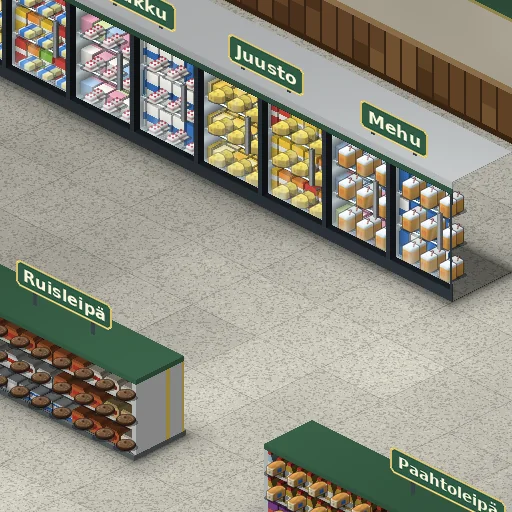
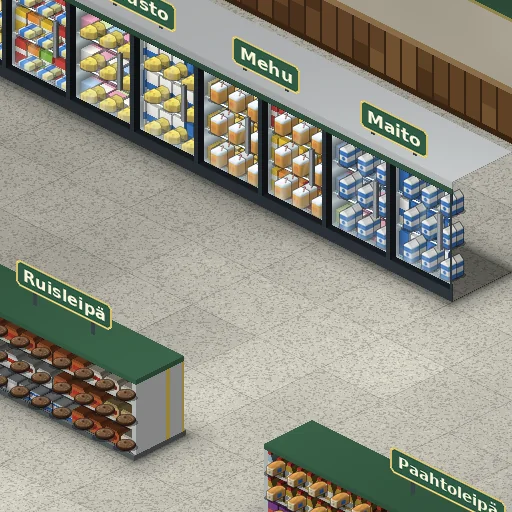
Sátnemátki v0.2.5.3
Gáhkku is left out of Ruokakauppa, as it means bread as well as cake.

diff --git a/art/store/fixtures.js b/art/store/fixtures.js
@@ -1,2 +1,2 @@
 // Generated by tools/make_store.py: where each tile's picture is on the sheet, and where it goes in its 256-high cell.
-window.MAHTTE_STORE = {"41,27s":[0,0,128,244,-96,-36],"5,4":[136,0,124,184,4,72],"6,4":[268,0,124,184,4,72],"7,4":[400,0,124,184,4,72],"8,4":[532,0,124,184,4,72],"9,4":[664,0,124,184,4,72],"10,4":[796,0,124,184,4,72],"11,4":[928,0,124,184,4,72],"12,4":[1060,0,124,184,4,72],"15,4":[1192,0,124,184,4,72],"16,4":[1324,0,124,184,4,72],"17,4":[1456,0,124,184,4,72],"18,4":[1588,0,124,184,4,72],"19,4":[1720,0,124,184,4,72],"20,4":[1852,0,124,184,4,72],"21,4":[1984,0,124,184,4,72],"22,4":[2116,0,124,184,4,72],"6,9":[2248,0,116,140,4,116],"7,9":[2372,0,104,140,4,116],"9,9":[2484,0,116,140,4,116],"10,9":[2608,0,104,140,4,116],"6,14":[2720,0,116,140,4,116],"12,9":[2844,0,120,140,4,116],"7,14":[2972,0,104,140,4,116],"9,14":[3084,0,116,140,4,116],"15,9":[0,252,116,140,4,116],"10,14":[124,252,116,140,4,116],"16,9":[248,252,104,140,4,116],"11,14":[360,252,104,140,4,116],"6,19":[472,252,116,140,4,116],"7,19":[596,252,104,140,4,116],"18,9":[708,252,116,140,4,116],"19,9":[832,252,104,140,4,116],"9,19":[944,252,116,140,4,116],"15,14":[1068,252,116,140,4,116],"10,19":[1192,252,116,140,4,116],"21,9":[1316,252,120,140,4,116],"16,14":[1444,252,104,140,4,116],"11,19":[1556,252,104,140,4,116],"18,14":[1668,252,116,140,4,116],"19,14":[1792,252,116,140,4,116],"25,9":[1916,252,116,140,4,116],"20,14":[2040,252,104,140,4,116],"15,19":[2152,252,116,140,4,116],"26,9":[2276,252,104,140,4,116],"16,19":[2388,252,104,140,4,116],"28,9":[2500,252,116,140,4,116],"18,19":[2624,252,116,140,4,116],"29,9":[2748,252,116,140,4,116],"19,19":[2872,252,116,140,4,116],"30,9":[2996,252,120,140,4,116],"20,19":[0,400,104,140,4,116],"34,9":[112,400,116,140,4,116],"35,9":[236,400,116,140,4,116],"36,9":[360,400,100,140,4,116],"38,9":[468,400,116,140,4,116],"39,9":[592,400,116,140,4,116],"40,9":[716,400,104,140,4,116],"42,9":[828,400,120,140,4,116],"8,9":[956,400,116,136,4,120],"11,9":[1080,400,116,136,4,120],"8,14":[1204,400,116,136,4,120],"17,9":[1328,400,104,136,4,120],"12,14":[1440,400,120,136,4,120],"8,19":[1568,400,116,136,4,120],"20,9":[1692,400,104,136,4,120],"17,14":[1804,400,116,136,4,120],"12,19":[1928,400,120,136,4,120],"21,14":[2056,400,120,136,4,120],"27,9":[2184,400,116,136,4,120],"17,19":[2308,400,116,136,4,120],"21,19":[2432,400,120,136,4,120],"33,9":[2560,400,116,136,4,120],"37,9":[2684,400,116,136,4,120],"41,9":[2808,400,116,136,4,120],"31,24":[2932,400,120,124,0,132],"30,25":[3060,400,120,124,8,132],"31,25":[0,548,120,120,4,132],"3,4":[128,548,128,108,0,148],"3,5":[264,548,128,108,0,148],"3,6":[400,548,128,108,0,148],"3,7":[536,548,128,108,0,148],"3,8":[672,548,128,108,0,148],"3,9":[808,548,128,108,0,148],"3,10":[944,548,128,108,0,148],"3,11":[1080,548,128,108,0,148],"3,12":[1216,548,128,108,0,148],"3,13":[1352,548,128,108,0,148],"3,14":[1488,548,128,108,0,148],"25,4":[1624,548,124,108,0,148],"26,4":[1756,548,128,108,0,148],"27,4":[1892,548,124,108,0,148],"28,4":[2024,548,128,108,0,148],"29,4":[2160,548,124,108,0,148],"30,4":[2292,548,128,108,0,148],"33,4":[2428,548,124,108,0,148],"34,4":[2560,548,128,108,0,148],"35,4":[2696,548,124,108,0,148],"25,14":[2828,548,124,108,0,148],"36,4":[2960,548,128,108,0,148],"26,14":[0,676,128,108,0,148],"37,4":[136,676,124,108,0,148],"27,14":[268,676,124,108,0,148],"38,4":[400,676,128,108,0,148],"28,14":[536,676,128,108,0,148],"39,4":[672,676,124,108,0,148],"29,14":[804,676,124,108,0,148],"40,4":[936,676,128,108,0,148],"30,14":[1072,676,128,108,0,148],"20,24":[1208,676,120,108,4,148],"41,4":[1336,676,124,108,0,148],"20,25":[1468,676,120,108,4,148],"42,4":[1596,676,128,108,0,148],"20,26":[1732,676,120,108,4,148],"33,14":[1860,676,124,108,0,148],"20,27":[1992,676,120,108,4,148],"34,14":[2120,676,128,108,0,148],"24,24":[2256,676,120,108,4,148],"35,14":[2384,676,124,108,0,148],"24,25":[2516,676,120,108,4,148],"36,14":[2644,676,124,108,0,148],"24,26":[2776,676,120,108,4,148],"37,14":[2904,676,124,108,0,148],"24,27":[3036,676,120,108,4,148],"38,14":[0,792,128,108,0,148],"39,14":[136,792,124,108,0,148],"40,14":[268,792,128,108,0,148],"41,14":[404,792,124,108,0,148],"42,14":[536,792,128,108,0,148],"37,19":[672,792,108,108,4,148],"38,19":[788,792,116,108,4,148],"2,4":[912,792,128,104,0,132],"25,19":[1048,792,112,104,4,152],"26,19":[1168,792,120,104,4,152],"27,22":[1296,792,112,104,4,152],"28,22":[1416,792,108,104,4,152],"33,22":[1532,792,112,104,4,152],"34,22":[1652,792,120,104,4,152],"29,22":[1780,792,108,100,4,156],"30,22":[1896,792,120,100,4,156],"41,19":[2024,792,112,100,4,156],"38,22":[2144,792,116,100,4,156],"42,19":[2268,792,120,100,4,156],"39,22":[2396,792,112,100,4,156],"40,22":[2516,792,112,100,4,156],"41,22":[2636,792,108,100,4,156],"42,22":[2752,792,120,100,4,156],"27,19":[2880,792,120,96,4,160],"28,19":[3008,792,116,96,4,160],"29,19":[0,908,116,96,4,160],"30,19":[124,908,120,96,4,160],"28,22s":[252,908,120,96,-8,96],"33,19":[380,908,120,96,4,160],"34,19":[508,908,120,96,4,160],"35,22":[636,908,120,96,4,160],"39,19":[764,908,116,96,4,160],"36,22":[888,908,120,96,4,160],"40,19":[1016,908,112,96,4,160],"37,22":[1136,908,116,96,4,160],"20,4s":[1260,908,124,92,-52,36],"35,19":[1392,908,120,92,4,164],"36,19":[1520,908,108,92,4,164],"38,19s":[1636,908,112,92,-4,96],"30,22s":[1756,908,104,88,0,100],"34,19s":[1868,908,104,88,0,100],"40,19s":[1980,908,96,88,4,100],"39,22s":[2084,908,104,88,0,100],"17,9s":[2196,908,120,84,4,76],"18,4s":[2324,908,108,80,-44,40],"2,27":[2440,908,72,80,28,164],"20,9s":[2520,908,112,80,8,80],"3,27":[2640,908,72,80,28,164],"4,27":[2720,908,72,80,28,164],"5,27":[2800,908,72,80,28,164],"6,27":[2880,908,72,80,28,164],"7,27":[2960,908,72,80,28,164],"8,27":[3040,908,72,80,28,164],"9,27":[3120,908,72,80,28,164],"10,27":[0,1012,72,80,28,164],"11,27":[80,1012,72,80,28,164],"12,27":[160,1012,72,80,28,164],"13,27":[240,1012,72,80,28,164],"14,27":[320,1012,72,80,28,164],"15,27":[400,1012,72,80,28,164],"16,27":[480,1012,72,80,28,164],"17,27":[560,1012,72,80,28,164],"18,27":[640,1012,72,80,28,164],"26,19s":[720,1012,80,80,12,104],"28,19s":[808,1012,88,80,8,104],"21,27":[904,1012,72,80,28,164],"22,27":[984,1012,72,80,28,164],"25,27":[1064,1012,72,80,28,164],"26,27":[1144,1012,72,80,28,164],"27,27":[1224,1012,72,80,28,164],"28,27":[1304,1012,72,80,28,164],"36,19s":[1384,1012,80,80,12,104],"29,27":[1472,1012,72,80,28,164],"34,22s":[1552,1012,88,80,8,104],"30,27":[1648,1012,72,80,28,164],"31,27":[1728,1012,72,80,28,164],"36,22s":[1808,1012,80,80,44,120],"32,27":[1896,1012,72,80,28,164],"33,27":[1976,1012,72,80,28,164],"34,27":[2056,1012,72,80,28,164],"35,27":[2136,1012,72,80,28,164],"36,27":[2216,1012,72,80,28,164],"41,22s":[2296,1012,96,80,36,116],"37,27":[2400,1012,72,80,28,164],"38,27":[2480,1012,72,80,28,164],"41,27":[2560,1012,72,80,28,164],"42,27":[2640,1012,72,80,28,164],"11,9s":[2720,1012,96,76,16,84],"22,4s":[2824,1012,100,76,-40,44],"2,32":[2932,1012,84,76,44,160],"3,32":[3024,1012,84,76,44,160],"4,32":[3116,1012,84,76,44,160],"5,32":[0,1100,84,76,44,160],"6,32":[92,1100,84,76,44,160],"7,32":[184,1100,84,76,44,160],"8,32":[276,1100,84,76,44,160],"9,32":[368,1100,84,76,44,160],"10,32":[460,1100,84,76,44,160],"11,32":[552,1100,84,76,44,160],"12,32":[644,1100,84,76,44,160],"13,32":[736,1100,84,76,44,160],"44,2":[828,1100,84,76,0,160],"14,32":[920,1100,84,76,44,160],"44,3":[1012,1100,84,76,0,160],"15,32":[1104,1100,84,76,44,160],"44,4":[1196,1100,84,76,0,160],"16,32":[1288,1100,84,76,44,160],"34,14s":[1380,1100,100,76,40,108],"44,5":[1488,1100,84,76,0,160],"17,32":[1580,1100,84,76,44,160],"44,6":[1672,1100,84,76,0,160],"18,32":[1764,1100,84,76,44,160],"44,7":[1856,1100,84,76,0,160],"19,32":[1948,1100,84,76,44,160],"37,14s":[2040,1100,100,76,40,108],"44,8":[2148,1100,84,76,0,160],"20,32":[2240,1100,84,76,44,160],"44,9":[2332,1100,84,76,0,160],"21,32":[2424,1100,84,76,44,160],"44,10":[2516,1100,84,76,0,160],"22,32":[2608,1100,84,76,44,160],"44,11":[2700,1100,84,76,0,160],"23,32":[2792,1100,84,76,44,160],"44,12":[2884,1100,84,76,0,160],"24,32":[2976,1100,84,76,44,160],"31,25s":[3068,1100,80,76,-36,140],"44,13":[0,1184,84,76,0,160],"25,32":[92,1184,84,76,44,160],"44,14":[184,1184,84,76,0,160],"26,32":[276,1184,84,76,44,160],"44,15":[368,1184,84,76,0,160],"27,32":[460,1184,84,76,44,160],"44,16":[552,1184,84,76,0,160],"28,32":[644,1184,84,76,44,160],"44,17":[736,1184,84,76,0,160],"29,32":[828,1184,84,76,44,160],"44,18":[920,1184,84,76,0,160],"30,32":[1012,1184,84,76,44,160],"44,19":[1104,1184,84,76,0,160],"31,32":[1196,1184,84,76,44,160],"44,20":[1288,1184,84,76,0,160],"32,32":[1380,1184,84,76,44,160],"44,21":[1472,1184,84,76,0,160],"33,32":[1564,1184,84,76,44,160],"44,22":[1656,1184,84,76,0,160],"34,32":[1748,1184,84,76,44,160],"44,23":[1840,1184,84,76,0,160],"35,32":[1932,1184,84,76,44,160],"44,24":[2024,1184,84,76,0,160],"44,25":[2116,1184,84,76,0,160],"44,26":[2208,1184,84,76,0,160],"44,27":[2300,1184,84,76,0,160],"39,32":[2392,1184,84,76,44,160],"44,28":[2484,1184,84,76,0,160],"40,32":[2576,1184,84,76,44,160],"44,29":[2668,1184,84,76,0,160],"41,32":[2760,1184,84,76,44,160],"44,30":[2852,1184,84,76,0,160],"42,32":[2944,1184,84,76,44,160],"44,31":[3036,1184,84,76,0,160],"43,32":[0,1268,84,76,44,160],"30,19s":[92,1268,64,72,20,108],"42,19s":[164,1268,64,72,20,108],"8,4s":[236,1268,76,68,-28,48],"10,4s":[320,1268,76,68,-28,48],"34,4s":[404,1268,76,68,52,112],"37,4s":[488,1268,76,68,52,112],"33,9s":[572,1268,72,68,28,88],"40,4s":[652,1268,76,68,52,112],"37,9s":[736,1268,80,68,24,88],"41,9s":[824,1268,72,68,28,88],"2,14":[904,1268,68,64,32,152],"8,9s":[980,1268,64,64,32,92],"8,14s":[1052,1268,64,64,32,92],"12,14s":[1124,1268,64,64,32,92],"8,19s":[1196,1268,64,64,32,92],"17,14s":[1268,1268,56,64,36,92],"12,19s":[1332,1268,64,64,32,92],"21,14s":[1404,1268,56,64,36,92],"27,9s":[1468,1268,64,64,32,92],"26,14s":[1540,1268,60,64,60,116],"29,14s":[1608,1268,60,64,60,116],"30,24":[1676,1268,112,64,8,136],"12,4s":[1796,1268,68,60,-24,52],"16,4s":[1872,1268,68,60,-24,52],"26,4s":[1948,1268,60,60,60,116],"29,4s":[2016,1268,60,60,60,116],"39,14s":[2084,1268,60,60,60,116],"42,14s":[2152,1268,60,60,60,116],"3,6s":[2220,1268,44,56,64,188],"3,8s":[2272,1268,52,56,64,188],"3,9s":[2332,1268,52,56,76,180],"3,10s":[2392,1268,48,56,64,188],"17,19s":[2448,1268,48,56,40,96],"21,19s":[2504,1268,48,56,40,96],"6,4s":[2560,1268,44,52,-12,56],"3,7s":[2612,1268,44,52,84,180],"3,11s":[2664,1268,48,52,80,180],"43,27":[2720,1268,72,52,28,164],"44,32":[2800,1268,40,52,44,160],"3,12s":[2848,1268,32,48,64,196],"3,13s":[2888,1268,32,44,96,180],"36,32":[2928,1268,20,44,44,160]};
+window.MAHTTE_STORE = {"41,27s":[0,0,128,244,-96,-36],"5,4":[136,0,124,184,4,72],"6,4":[268,0,124,184,4,72],"7,4":[400,0,124,184,4,72],"8,4":[532,0,124,184,4,72],"9,4":[664,0,124,184,4,72],"10,4":[796,0,124,184,4,72],"11,4":[928,0,124,184,4,72],"12,4":[1060,0,124,184,4,72],"15,4":[1192,0,124,184,4,72],"16,4":[1324,0,124,184,4,72],"17,4":[1456,0,124,184,4,72],"18,4":[1588,0,124,184,4,72],"19,4":[1720,0,124,184,4,72],"20,4":[1852,0,124,184,4,72],"21,4":[1984,0,124,184,4,72],"22,4":[2116,0,124,184,4,72],"6,9":[2248,0,116,140,4,116],"7,9":[2372,0,104,140,4,116],"9,9":[2484,0,116,140,4,116],"10,9":[2608,0,104,140,4,116],"6,14":[2720,0,116,140,4,116],"12,9":[2844,0,120,140,4,116],"7,14":[2972,0,104,140,4,116],"9,14":[3084,0,116,140,4,116],"15,9":[0,252,116,140,4,116],"10,14":[124,252,116,140,4,116],"16,9":[248,252,104,140,4,116],"11,14":[360,252,104,140,4,116],"6,19":[472,252,116,140,4,116],"7,19":[596,252,104,140,4,116],"18,9":[708,252,116,140,4,116],"19,9":[832,252,104,140,4,116],"9,19":[944,252,116,140,4,116],"15,14":[1068,252,116,140,4,116],"10,19":[1192,252,116,140,4,116],"21,9":[1316,252,120,140,4,116],"16,14":[1444,252,104,140,4,116],"11,19":[1556,252,104,140,4,116],"18,14":[1668,252,116,140,4,116],"19,14":[1792,252,116,140,4,116],"25,9":[1916,252,116,140,4,116],"20,14":[2040,252,104,140,4,116],"15,19":[2152,252,116,140,4,116],"26,9":[2276,252,104,140,4,116],"16,19":[2388,252,104,140,4,116],"28,9":[2500,252,116,140,4,116],"18,19":[2624,252,116,140,4,116],"29,9":[2748,252,116,140,4,116],"19,19":[2872,252,116,140,4,116],"30,9":[2996,252,120,140,4,116],"20,19":[0,400,104,140,4,116],"34,9":[112,400,116,140,4,116],"35,9":[236,400,116,140,4,116],"36,9":[360,400,100,140,4,116],"38,9":[468,400,116,140,4,116],"39,9":[592,400,116,140,4,116],"40,9":[716,400,104,140,4,116],"42,9":[828,400,120,140,4,116],"8,9":[956,400,116,136,4,120],"11,9":[1080,400,116,136,4,120],"8,14":[1204,400,116,136,4,120],"17,9":[1328,400,104,136,4,120],"12,14":[1440,400,120,136,4,120],"8,19":[1568,400,116,136,4,120],"20,9":[1692,400,104,136,4,120],"17,14":[1804,400,116,136,4,120],"12,19":[1928,400,120,136,4,120],"21,14":[2056,400,120,136,4,120],"27,9":[2184,400,116,136,4,120],"17,19":[2308,400,116,136,4,120],"21,19":[2432,400,120,136,4,120],"33,9":[2560,400,116,136,4,120],"37,9":[2684,400,116,136,4,120],"41,9":[2808,400,116,136,4,120],"31,24":[2932,400,120,124,0,132],"30,25":[3060,400,120,124,8,132],"31,25":[0,548,120,120,4,132],"3,4":[128,548,128,108,0,148],"3,5":[264,548,128,108,0,148],"3,6":[400,548,128,108,0,148],"3,7":[536,548,128,108,0,148],"3,8":[672,548,128,108,0,148],"3,9":[808,548,128,108,0,148],"3,10":[944,548,128,108,0,148],"3,11":[1080,548,128,108,0,148],"3,12":[1216,548,128,108,0,148],"3,13":[1352,548,128,108,0,148],"3,14":[1488,548,128,108,0,148],"25,4":[1624,548,124,108,0,148],"26,4":[1756,548,128,108,0,148],"27,4":[1892,548,124,108,0,148],"28,4":[2024,548,128,108,0,148],"29,4":[2160,548,124,108,0,148],"30,4":[2292,548,128,108,0,148],"33,4":[2428,548,124,108,0,148],"34,4":[2560,548,128,108,0,148],"35,4":[2696,548,124,108,0,148],"25,14":[2828,548,124,108,0,148],"36,4":[2960,548,128,108,0,148],"26,14":[0,676,128,108,0,148],"37,4":[136,676,124,108,0,148],"27,14":[268,676,124,108,0,148],"38,4":[400,676,128,108,0,148],"28,14":[536,676,128,108,0,148],"39,4":[672,676,124,108,0,148],"29,14":[804,676,124,108,0,148],"40,4":[936,676,128,108,0,148],"30,14":[1072,676,128,108,0,148],"20,24":[1208,676,120,108,4,148],"41,4":[1336,676,124,108,0,148],"20,25":[1468,676,120,108,4,148],"42,4":[1596,676,128,108,0,148],"20,26":[1732,676,120,108,4,148],"33,14":[1860,676,124,108,0,148],"20,27":[1992,676,120,108,4,148],"34,14":[2120,676,128,108,0,148],"24,24":[2256,676,120,108,4,148],"35,14":[2384,676,124,108,0,148],"24,25":[2516,676,120,108,4,148],"36,14":[2644,676,124,108,0,148],"24,26":[2776,676,120,108,4,148],"37,14":[2904,676,124,108,0,148],"24,27":[3036,676,120,108,4,148],"38,14":[0,792,128,108,0,148],"39,14":[136,792,124,108,0,148],"40,14":[268,792,128,108,0,148],"41,14":[404,792,124,108,0,148],"42,14":[536,792,128,108,0,148],"37,19":[672,792,108,108,4,148],"38,19":[788,792,116,108,4,148],"2,4":[912,792,128,104,0,132],"25,19":[1048,792,112,104,4,152],"26,19":[1168,792,120,104,4,152],"27,22":[1296,792,112,104,4,152],"28,22":[1416,792,108,104,4,152],"33,22":[1532,792,112,104,4,152],"34,22":[1652,792,120,104,4,152],"29,22":[1780,792,108,100,4,156],"30,22":[1896,792,120,100,4,156],"41,19":[2024,792,112,100,4,156],"38,22":[2144,792,116,100,4,156],"42,19":[2268,792,120,100,4,156],"39,22":[2396,792,112,100,4,156],"40,22":[2516,792,112,100,4,156],"41,22":[2636,792,108,100,4,156],"42,22":[2752,792,120,100,4,156],"27,19":[2880,792,120,96,4,160],"28,19":[3008,792,116,96,4,160],"29,19":[0,908,116,96,4,160],"30,19":[124,908,120,96,4,160],"28,22s":[252,908,120,96,-8,96],"33,19":[380,908,120,96,4,160],"34,19":[508,908,120,96,4,160],"35,22":[636,908,120,96,4,160],"39,19":[764,908,116,96,4,160],"36,22":[888,908,120,96,4,160],"40,19":[1016,908,112,96,4,160],"37,22":[1136,908,116,96,4,160],"35,19":[1260,908,120,92,4,164],"36,19":[1388,908,108,92,4,164],"38,19s":[1504,908,112,92,-4,96],"30,22s":[1624,908,104,88,0,100],"34,19s":[1736,908,104,88,0,100],"40,19s":[1848,908,96,88,4,100],"39,22s":[1952,908,104,88,0,100],"17,9s":[2064,908,120,84,4,76],"16,4s":[2192,908,108,80,-44,40],"18,4s":[2308,908,124,80,-20,52],"2,27":[2440,908,72,80,28,164],"20,9s":[2520,908,112,80,8,80],"3,27":[2640,908,72,80,28,164],"4,27":[2720,908,72,80,28,164],"5,27":[2800,908,72,80,28,164],"6,27":[2880,908,72,80,28,164],"7,27":[2960,908,72,80,28,164],"8,27":[3040,908,72,80,28,164],"9,27":[3120,908,72,80,28,164],"10,27":[0,1012,72,80,28,164],"11,27":[80,1012,72,80,28,164],"12,27":[160,1012,72,80,28,164],"13,27":[240,1012,72,80,28,164],"14,27":[320,1012,72,80,28,164],"15,27":[400,1012,72,80,28,164],"16,27":[480,1012,72,80,28,164],"17,27":[560,1012,72,80,28,164],"18,27":[640,1012,72,80,28,164],"26,19s":[720,1012,80,80,12,104],"28,19s":[808,1012,88,80,8,104],"21,27":[904,1012,72,80,28,164],"22,27":[984,1012,72,80,28,164],"25,27":[1064,1012,72,80,28,164],"26,27":[1144,1012,72,80,28,164],"27,27":[1224,1012,72,80,28,164],"28,27":[1304,1012,72,80,28,164],"36,19s":[1384,1012,80,80,12,104],"29,27":[1472,1012,72,80,28,164],"34,22s":[1552,1012,88,80,8,104],"30,27":[1648,1012,72,80,28,164],"31,27":[1728,1012,72,80,28,164],"36,22s":[1808,1012,80,80,44,120],"32,27":[1896,1012,72,80,28,164],"33,27":[1976,1012,72,80,28,164],"34,27":[2056,1012,72,80,28,164],"35,27":[2136,1012,72,80,28,164],"36,27":[2216,1012,72,80,28,164],"41,22s":[2296,1012,96,80,36,116],"37,27":[2400,1012,72,80,28,164],"38,27":[2480,1012,72,80,28,164],"41,27":[2560,1012,72,80,28,164],"42,27":[2640,1012,72,80,28,164],"11,9s":[2720,1012,96,76,16,84],"2,32":[2824,1012,84,76,44,160],"3,32":[2916,1012,84,76,44,160],"4,32":[3008,1012,84,76,44,160],"5,32":[3100,1012,84,76,44,160],"6,32":[0,1100,84,76,44,160],"7,32":[92,1100,84,76,44,160],"8,32":[184,1100,84,76,44,160],"9,32":[276,1100,84,76,44,160],"10,32":[368,1100,84,76,44,160],"11,32":[460,1100,84,76,44,160],"12,32":[552,1100,84,76,44,160],"13,32":[644,1100,84,76,44,160],"44,2":[736,1100,84,76,0,160],"14,32":[828,1100,84,76,44,160],"44,3":[920,1100,84,76,0,160],"15,32":[1012,1100,84,76,44,160],"44,4":[1104,1100,84,76,0,160],"16,32":[1196,1100,84,76,44,160],"34,14s":[1288,1100,100,76,40,108],"44,5":[1396,1100,84,76,0,160],"17,32":[1488,1100,84,76,44,160],"44,6":[1580,1100,84,76,0,160],"18,32":[1672,1100,84,76,44,160],"44,7":[1764,1100,84,76,0,160],"19,32":[1856,1100,84,76,44,160],"37,14s":[1948,1100,100,76,40,108],"44,8":[2056,1100,84,76,0,160],"20,32":[2148,1100,84,76,44,160],"44,9":[2240,1100,84,76,0,160],"21,32":[2332,1100,84,76,44,160],"44,10":[2424,1100,84,76,0,160],"22,32":[2516,1100,84,76,44,160],"44,11":[2608,1100,84,76,0,160],"23,32":[2700,1100,84,76,44,160],"44,12":[2792,1100,84,76,0,160],"24,32":[2884,1100,84,76,44,160],"31,25s":[2976,1100,80,76,-36,140],"44,13":[3064,1100,84,76,0,160],"25,32":[0,1184,84,76,44,160],"44,14":[92,1184,84,76,0,160],"26,32":[184,1184,84,76,44,160],"44,15":[276,1184,84,76,0,160],"27,32":[368,1184,84,76,44,160],"44,16":[460,1184,84,76,0,160],"28,32":[552,1184,84,76,44,160],"44,17":[644,1184,84,76,0,160],"29,32":[736,1184,84,76,44,160],"44,18":[828,1184,84,76,0,160],"30,32":[920,1184,84,76,44,160],"44,19":[1012,1184,84,76,0,160],"31,32":[1104,1184,84,76,44,160],"44,20":[1196,1184,84,76,0,160],"32,32":[1288,1184,84,76,44,160],"44,21":[1380,1184,84,76,0,160],"33,32":[1472,1184,84,76,44,160],"44,22":[1564,1184,84,76,0,160],"34,32":[1656,1184,84,76,44,160],"44,23":[1748,1184,84,76,0,160],"35,32":[1840,1184,84,76,44,160],"44,24":[1932,1184,84,76,0,160],"44,25":[2024,1184,84,76,0,160],"44,26":[2116,1184,84,76,0,160],"44,27":[2208,1184,84,76,0,160],"39,32":[2300,1184,84,76,44,160],"44,28":[2392,1184,84,76,0,160],"40,32":[2484,1184,84,76,44,160],"44,29":[2576,1184,84,76,0,160],"41,32":[2668,1184,84,76,44,160],"44,30":[2760,1184,84,76,0,160],"42,32":[2852,1184,84,76,44,160],"44,31":[2944,1184,84,76,0,160],"43,32":[3036,1184,84,76,44,160],"21,4s":[0,1268,100,72,-8,60],"30,19s":[108,1268,64,72,20,108],"42,19s":[180,1268,64,72,20,108],"8,4s":[252,1268,76,68,-28,48],"34,4s":[336,1268,76,68,52,112],"37,4s":[420,1268,76,68,52,112],"33,9s":[504,1268,72,68,28,88],"40,4s":[584,1268,76,68,52,112],"37,9s":[668,1268,80,68,24,88],"41,9s":[756,1268,72,68,28,88],"2,14":[836,1268,68,64,32,152],"8,9s":[912,1268,64,64,32,92],"8,14s":[984,1268,64,64,32,92],"12,14s":[1056,1268,64,64,32,92],"8,19s":[1128,1268,64,64,32,92],"17,14s":[1200,1268,56,64,36,92],"12,19s":[1264,1268,64,64,32,92],"21,14s":[1336,1268,56,64,36,92],"27,9s":[1400,1268,64,64,32,92],"26,14s":[1472,1268,60,64,60,116],"29,14s":[1540,1268,60,64,60,116],"30,24":[1608,1268,112,64,8,136],"10,4s":[1728,1268,68,60,-24,52],"12,4s":[1804,1268,68,60,-24,52],"26,4s":[1880,1268,60,60,60,116],"29,4s":[1948,1268,60,60,60,116],"39,14s":[2016,1268,60,60,60,116],"42,14s":[2084,1268,60,60,60,116],"3,6s":[2152,1268,44,56,64,188],"3,8s":[2204,1268,52,56,64,188],"3,9s":[2264,1268,52,56,76,180],"3,10s":[2324,1268,48,56,64,188],"17,19s":[2380,1268,48,56,40,96],"21,19s":[2436,1268,48,56,40,96],"6,4s":[2492,1268,44,52,-12,56],"3,7s":[2544,1268,44,52,84,180],"3,11s":[2596,1268,48,52,80,180],"43,27":[2652,1268,72,52,28,164],"44,32":[2732,1268,40,52,44,160],"3,12s":[2780,1268,32,48,64,196],"3,13s":[2820,1268,32,44,96,180],"36,32":[2860,1268,20,44,44,160]};

diff --git a/data/starter-words.js b/data/starter-words.js
@@ -72,7 +72,6 @@ window.MAHTTE_WORDS = [
 {"lemma":"šuhkoláda","pos":"N","fi":"suklaa","nb":"sjokolade","sprite":"chocolate","place":"shelf","theme":"food","gradation":null,"forms":{"Sg+Nom":["šuhkoláda",""],"Sg+Acc":["šuhkoláda",""],"Sg+Gen":["šuhkoláda",""],"Sg+Ill":["šuhkoládii",""],"Sg+Loc":["šuhkoládas",""],"Sg+Com":["šuhkoládain",""],"Pl+Nom":["šuhkoládat",""],"Pl+Acc":["šuhkoládaid",""],"Ess":["šuhkoládan",""]}},
 {"lemma":"njálggus","pos":"N","fi":"karkki","nb":"slikkeri","sprite":"candy","place":"shelf","theme":"food","gradation":{"pair":"lg (GD) ~ lgg (HD)","gd":"lg","hd":"lgg","group":"Joavku 6: l-čoahkit","row":"lg (III) · lgg (II)"},"forms":{"Sg+Nom":["njálggus","HD"],"Sg+Acc":["njálgosa","GD"],"Sg+Gen":["njálgosa","GD"],"Sg+Ill":["njálgosii","GD"],"Sg+Loc":["njálgosis","GD"],"Sg+Com":["njálgosiin","GD"],"Pl+Nom":["njálgosat","GD"],"Pl+Acc":["njálgosiid","GD"],"Ess":["njálggusin","HD"]}},
 {"lemma":"keaksa","pos":"N","fi":"keksi","nb":"kjeks","sprite":"cookie","place":"shelf","theme":"food","gradation":{"pair":"ks (GD) ~ vss (HD)","gd":"ks","hd":"vss","group":"Joavku 9: k-čoahkit","row":"ks (III) · vss (II)"},"forms":{"Sg+Nom":["keaksa","GD"],"Sg+Acc":["keavssa","HD"],"Sg+Gen":["keavssa","HD"],"Sg+Ill":["keksii","GD"],"Sg+Loc":["keavssas","HD"],"Sg+Com":["keavssain","HD"],"Pl+Nom":["keavssat","HD"],"Pl+Acc":["keavssaid","HD"],"Ess":["keaksan","GD"]}},
-{"lemma":"gáhkku","pos":"N","fi":"kakku","nb":"kake","sprite":"cake","place":"fridge","theme":"food","gradation":{"pair":"hkk (GD) ~ hk (HD)","gd":"hkk","hd":"hk","group":"Joavku 3: h-čoahkit","row":"hkk (III) · hk (II) · g (I)"},"forms":{"Sg+Nom":["gáhkku","GD"],"Sg+Acc":["gáhku","HD"],"Sg+Gen":["gáhko","HD"],"Sg+Ill":["gáhkkui","GD"],"Sg+Loc":["gáhkus","HD"],"Sg+Com":["gáhkuin","HD"],"Pl+Nom":["gáhkut","HD"],"Pl+Acc":["gáhkuid","HD"],"Ess":["gáhkkun","GD"]}},
 {"lemma":"bruvsa","pos":"N","fi":"limsa","nb":"brus","sprite":"soda","place":"shelf","theme":"food","gradation":null,"forms":{"Sg+Nom":["bruvsa",""],"Sg+Acc":["bruvssa",""],"Sg+Gen":["bruvssa",""],"Sg+Ill":["bruvsii",""],"Sg+Loc":["bruvssas",""],"Sg+Com":["bruvssain",""],"Pl+Nom":["bruvssat",""],"Pl+Acc":["bruvssaid",""],"Ess":["bruvsan",""]}},
 {"lemma":"pizza","pos":"N","fi":"pizza","nb":"pizza","sprite":"pizza","place":"freezer","theme":"food","gradation":null,"forms":{"Sg+Nom":["pizza",""],"Sg+Acc":["pizza",""],"Sg+Gen":["pizza",""],"Sg+Ill":["pizzai",""],"Sg+Loc":["pizzas",""],"Sg+Com":["pizzain",""],"Pl+Nom":["pizzat",""],"Pl+Acc":["pizzaid",""],"Ess":["pizzan",""]}},
 {"lemma":"guoppar","pos":"N","fi":"sieni","nb":"sopp","sprite":"mushroom","place":"produce","theme":"food","gradation":{"pair":"bb (GD) ~ pp (HD)","gd":"bb","hd":"pp","group":"Duppalkonsonánttat 2","row":"bb (III) · pp (II)"},"forms":{"Sg+Nom":["guoppar","HD"],"Sg+Acc":["guobbara","GD"],"Sg+Gen":["guobbara","GD"],"Sg+Ill":["guobbarii","GD"],"Sg+Loc":["guobbaris","GD"],"Sg+Com":["guobbariin","GD"],"Pl+Nom":["guobbarat","GD"],"Pl+Acc":["guobbariid","GD"],"Ess":["guopparin","HD"]}},

diff --git a/data/map.js b/data/map.js
@@ -4574,7 +4574,7 @@ window.MAHTTE_MAPS = {
      4
     ]
    ],
-   "cake": [
+   "cheese": [
     [
      7,
      4
@@ -4584,7 +4584,7 @@ window.MAHTTE_MAPS = {
      4
     ]
    ],
-   "cheese": [
+   "juice": [
     [
      9,
      4
@@ -4594,7 +4594,7 @@ window.MAHTTE_MAPS = {
      4
     ]
    ],
-   "juice": [
+   "milk": [
     [
      11,
      4
@@ -4604,7 +4604,7 @@ window.MAHTTE_MAPS = {
      4
     ]
    ],
-   "milk": [
+   "mince": [
     [
      15,
      4
@@ -4614,7 +4614,7 @@ window.MAHTTE_MAPS = {
      4
     ]
    ],
-   "mince": [
+   "pancake": [
     [
      17,
      4
@@ -4622,19 +4622,17 @@ window.MAHTTE_MAPS = {
     [
      18,
      4
-    ]
-   ],
-   "pancake": [
-    [
-     19,
-     4
     ],
     [
-     20,
+     19,
      4
     ]
    ],
    "sausage": [
+    [
+     20,
+     4
+    ],
     [
      21,
      4

diff --git a/index.html b/index.html
@@ -11,7 +11,7 @@
 <div class="stripe"></div>
 <header class="hero">
   <div class="hero-text">
-    <h1 lang="se">Sátnemátki <small>v0.2.5.2</small></h1>
+    <h1 lang="se">Sátnemátki <small>v0.2.5.3</small></h1>
     <p class="lead">Pohjoissaamen sanapeli lapsille. Nimi tarkoittaa <em>sanamatkaa</em>: kuljet hahmollasi kodissa, metsässä ja kaupassa ja etsit sen, mitä saamenkielinen sana tarkoittaa.</p>
     <a class="play" href="peli.html">Pelaa selaimessa</a>
     <p class="fine">Maksuton. Ei rekisteröitymistä eikä asennusta.</p>

diff --git a/peli.html b/peli.html
@@ -8,7 +8,7 @@
 </head>
 <body>
 <main>
-  <h1 id="game-title" lang="se">Sátnemátki <small>v0.2.5.2</small></h1>
+  <h1 id="game-title" lang="se">Sátnemátki <small>v0.2.5.3</small></h1>
   <header id="prompt" aria-live="polite"></header>
   <div id="top-hint" aria-live="polite"></div>
   <div id="view">

diff --git a/README.md b/README.md
@@ -1,6 +1,6 @@
 # Sátnemátki
 
-*Sátnemátki* means "word journey" in Northern Sámi. Version 0.2.5.2, a technology demo.
+*Sátnemátki* means "word journey" in Northern Sámi. Version 0.2.5.3, a technology demo.
 
 A Northern Sámi word game for children. The player creates a character, Máhtte or Biret, chooses a place, and
 walks around it in an isometric view with a camera that follows: furniture and family at home, animals in the forest, coloured books on the shelves and
